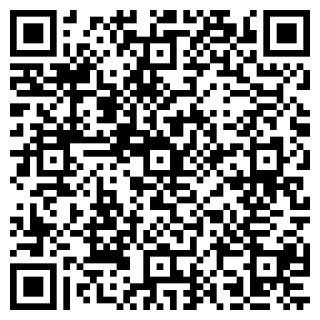
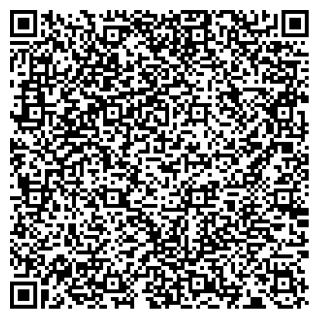
Add encryption

diff --git a/app/Encryption/Binaryzer.php b/app/Encryption/Binaryzer.php
@@ -1,0 +1,61 @@
+<?php
+
+
+namespace App\Encryption;
+
+class Binaryzer
+{
+    private $E;
+
+    function __construct($e)
+    {
+        $this->E = $e;
+    }
+
+    public function toBin()
+    {
+        $result = '';
+        $tab_size = 0;
+        $res = [];
+
+        if ($this->E == 1) {
+            $res[$tab_size] = 1;
+            $tab_size++;
+        } else if ($this->E == 0) {
+            $res[$tab_size] = 0;
+            $tab_size++;
+        } else {
+            while (($q = (int)($this->E / 2)) != 0) {
+                if ($q != 1) {
+                    $r = $this->E % 2;
+                    if ($r == 1) {
+                        $res[$tab_size] = 1;
+                        $tab_size++;
+                    } else {
+                        $res[$tab_size] = 0;
+                        $tab_size++;
+                    }
+                    $this->E = $q;
+                } else {
+                    $r = $this->E % 2;
+                    if ($r == 1) {
+                        $res[$tab_size] = 1;
+                        $tab_size++;
+                    } else {
+                        $res[$tab_size] = 0;
+                        $tab_size++;
+                    }
+                    $res[$tab_size] = 1;
+                    $tab_size++;
+                    break;
+                }
+            }
+        }
+
+        for ($i = count($res) - 1; $i >= 0; $i--) {
+            $result .= $res[$i];
+        }
+
+        return $result;
+    }
+}

diff --git a/app/Encryption/RSA.php b/app/Encryption/RSA.php
@@ -1,0 +1,65 @@
+<?php
+
+namespace App\Encryption;
+
+class RSA
+{
+
+    private static function calculate($message, $key)
+    {
+        $c = 1;
+
+        $binarizer = new Binaryzer($key);
+
+        $bin = $binarizer->toBin();
+
+        for ($i = 0; $i < strlen($bin); $i++) {
+            $c = $bin[$i] == 0 ? self::power((int)$c, 2) % 1073 : (self::power((int)$c, 2) * (int)$message) % 1073;
+        }
+
+        return $c;
+    }
+
+    private static function power($x, $n)
+    {
+        $resPuis = 1;
+
+        if ($x == 0) {
+            return 0;
+        }
+
+        if ($n == 0) {
+            return 1;
+        }
+
+        for ($i = 0; $i < $n; $i++) {
+            $resPuis = $resPuis * $x;
+        }
+
+        return $resPuis;
+    }
+
+    public static function encrypt($text)
+    {
+        $text_crypte = '';
+
+        for ($i = 0; $i < strlen($text); $i++) {
+            $text_crypte = $i == strlen($text) - 1 ? $text_crypte . self::calculate((ord($text[$i])) - 65, 71) : $text_crypte . self::calculate((ord($text[$i])) - 65, 71) . " ";
+        }
+
+        return $text_crypte;
+    }
+
+    public static function decrypt($text)
+    {
+        $text_clair = '';
+
+        $txt = \explode(" ", $text);
+
+        for ($i = 0; $i < count($txt); $i++) {
+            $text_clair .= chr(65 + (self::calculate($txt[$i], 1079)));
+        }
+
+        return $text_clair;
+    }
+}

diff --git a/app/Query.php b/app/Query.php
@@ -16,7 +16,7 @@ class Query
      * @param int $mode
      * @return array
      */
-    public static function fetchAll(string $query, $mode = \PDO::FETCH_OBJ): array
+    public static function fetchAll(string $query, $mode = \PDO::FETCH_OBJ)
     {
         return Database::getInstance()->getPdo()->query($query)->fetchAll($mode);
     }
@@ -36,7 +36,7 @@ class Query
      * @param int $mode
      * @return array
      */
-    public static function select(string $query, $mode = \PDO::FETCH_OBJ): array
+    public static function select(string $query, $mode = \PDO::FETCH_OBJ)
     {
         return Database::getInstance()->getPdo()->query($query)->fetchAll($mode);
     }

diff --git a/app/Generator/CodeGenerator.php b/app/Generator/CodeGenerator.php
@@ -9,6 +9,7 @@
 
 namespace App\Generator;
 
+use App\Encryption\RSA;
 use Endroid\QrCode\ErrorCorrectionLevel;
 use Endroid\QrCode\QrCode;
 
@@ -16,11 +17,17 @@ class CodeGenerator
 {
     /**
      * @param string $value
+     * @param bool $encrypt
      */
-    public static function generate(string $value)
+    public static function generate($value, $encrypt = false)
     {
 
         // Create a basic QR code
+
+        if ($encrypt) {
+            $value = RSA::encrypt($value);
+        }
+
         $qrCode = new QrCode($value);
         $qrCode
             ->setSize(300)

diff --git a/app/Database.php b/app/Database.php
@@ -27,7 +27,7 @@ class Database
     /**
      * @return Database
      */
-    public static function getInstance(): Database
+    public static function getInstance()
     {
         if (static::$instance) {
             return static::$instance;
@@ -39,7 +39,7 @@ class Database
     /**
      * @return \PDO
      */
-    public function getPdo(): \PDO
+    public function getPdo()
     {
         return $this->pdo;
     }
